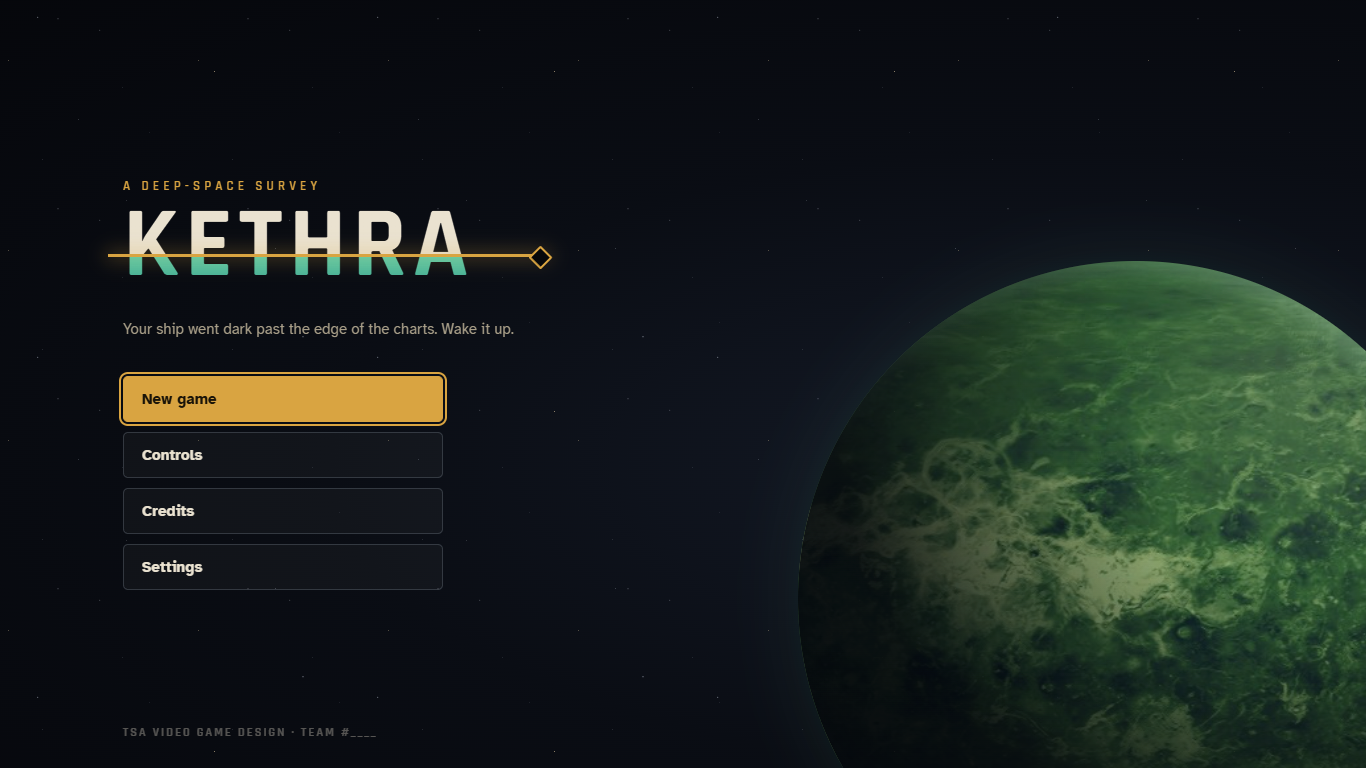
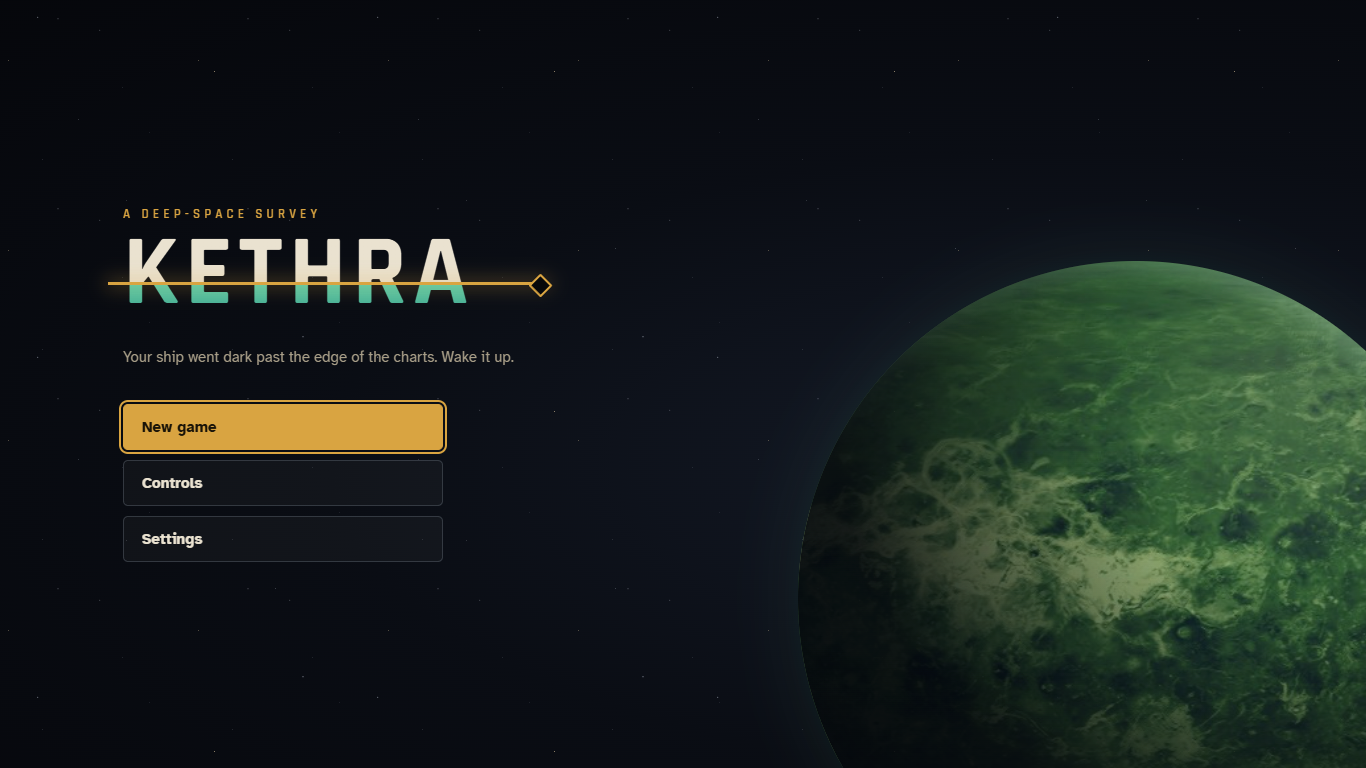
ui(title): remove the Credits button and the team footer line
The credits, with the CC BY attribution, still roll at the end of the
game. Docs updated to match; smoke 6/6.

Changed region(s): [[0.0615, 0.2188, 0.3997, 0.75], [0.0922, 0.9375, 0.246, 0.9688]]

diff --git a/src/ui/TitleScreen.ts b/src/ui/TitleScreen.ts
@@ -11,20 +11,11 @@ import type { BindingId } from '../content/controls';
  * nothing 3D has loaded yet, and the first click on it is what unlocks audio (browsers block sound
  * until the page gets a gesture).
  *
- * Continue / New Game / Controls / Credits / Settings. Controls and Credits open in the shared
+ * Continue / New Game / Controls / Settings. Controls opens in the shared
  * panel system. The controls list prints src/content/controls.ts, the same table the player code
- * reads its keys from, and Credits carries the attribution the CC BY assets require.
+ * reads its keys from. The credits, including the attribution the CC BY assets require, roll at
+ * the end of the game (EndingScene).
  */
-
-const CREDIT_KEYS: StringKey[] = [
-  'credits.freighter',
-  'credits.planets',
-  'credits.kits',
-  'credits.textures',
-  'credits.font',
-  'credits.three',
-  'credits.original',
-];
 
 interface TitleOptions {
   hasSave: boolean;
@@ -45,15 +36,13 @@ export const TitleScreen = {
         <h1 class="title-name"><span class="title-name-text"></span><span class="title-scan" aria-hidden="true"></span></h1>
         <p class="title-tagline"></p>
         <nav class="title-menu"></nav>
-      </div>
-      <div class="title-foot"></div>`;
+      </div>`;
     // Key art: Kethra itself, from the same surface map the 3D planet and the chart use.
     (root.querySelector('.title-planet') as HTMLDivElement).style.backgroundImage = `url(${import.meta.env.BASE_URL}textures/planets/kethra_day.jpg)`;
     root.querySelector('.title-kicker')!.textContent = t('title.kicker');
     root.querySelector('.title-name-text')!.textContent = t('title.name');
     root.querySelector('.title-name')!.setAttribute('data-name', t('title.name'));
     root.querySelector('.title-tagline')!.textContent = t('title.tagline');
-    root.querySelector('.title-foot')!.textContent = t('title.foot');
 
     const menu = root.querySelector('.title-menu')!;
     PanelManager.relockPointerOnClose = false;
@@ -80,7 +69,6 @@ export const TitleScreen = {
     if (opts.hasSave) add('title.continue', true, () => close(opts.onContinue));
     add('title.newGame', !opts.hasSave, () => close(opts.onNewGame));
     add('title.controls', false, () => this.showControls());
-    add('title.credits', false, () => this.showCredits());
     add('title.settings', false, () => SettingsPanel.open());
 
     document.body.appendChild(root);
@@ -113,22 +101,6 @@ export const TitleScreen = {
     note.className = 'title-panel-note';
     note.textContent = t('controls.note');
     panel.appendChild(note);
-    this.closeHint(panel);
-    PanelManager.open(panel);
-  },
-
-  showCredits(): void {
-    const panel = document.createElement('div');
-    panel.className = 'panel title-panel';
-    const h = document.createElement('h2');
-    h.textContent = t('title.credits');
-    panel.appendChild(h);
-    for (const key of CREDIT_KEYS) {
-      const p = document.createElement('p');
-      p.className = 'credit-line';
-      p.textContent = t(key);
-      panel.appendChild(p);
-    }
     this.closeHint(panel);
     PanelManager.open(panel);
   },

diff --git a/src/style.css b/src/style.css
@@ -1453,17 +1453,6 @@ body.title-open #ui-root > :not(.panel-overlay) { visibility: hidden; }
 .title-btn:focus-visible { outline: 2px solid var(--accent); outline-offset: 2px; }
 .title-btn.primary { background: var(--accent); color: #1a1408; border-color: var(--accent); }
 .title-btn.primary:hover { background: var(--accent-hover); border-color: var(--accent-hover); }
-.title-foot {
-  position: absolute;
-  left: clamp(24px, 9vw, 180px);
-  bottom: 28px;
-  font-family: var(--font-display);
-  font-weight: 600;
-  font-size: calc(12px * var(--text-scale));
-  letter-spacing: 0.18em;
-  text-transform: uppercase;
-  color: rgba(234, 226, 208, 0.35);
-}
 @media (prefers-reduced-motion: reduce) {
   .title-planet { animation: none; }
 }

diff --git a/src/content/strings.ts b/src/content/strings.ts
@@ -77,11 +77,9 @@ export const STRINGS = {
   'title.kicker': 'A deep-space survey',
   'title.name': 'Kethra',
   'title.tagline': 'Your ship went dark past the edge of the charts. Wake it up.',
-  'title.foot': 'TSA Video Game Design \u00b7 Team #____',
   'title.continue': 'Continue',
   'title.newGame': 'New game',
   'title.controls': 'Controls',
-  'title.credits': 'Credits',
   'title.settings': 'Settings',
   'title.closeHint': 'Esc to close',
   'toast.continue': 'Continuing your saved journey.',

diff --git a/docs/PLAYTEST_REPORT.md b/docs/PLAYTEST_REPORT.md
@@ -45,12 +45,12 @@ longer [unsourced — estimate: 12–20 minutes]; nobody has timed one yet (BACK
 | Rule | Status | Evidence |
 |---|---|---|
 | Rated E | ✓ | No weapons or combat anywhere; the dangers are darkness, cold and distance. The only fail states are a fall on Kethra (you scramble back) and the frost clock (the backup warmers buy another try). |
-| Original or permissively licensed, logged | ✓ | docs/ASSET_LICENSE_LOG.md; both CC BY assets credited on the title and in the ending's credits. |
+| Original or permissively licensed, logged | ✓ | docs/ASSET_LICENSE_LOG.md; both CC BY assets credited in the ending's credits. |
 | Plain URL, four browsers, Windows and macOS | ~ | Chromium 151, Edge 153, Firefox 153: every level, 0 errors. WebKit 26.5 (the Windows test build of Safari's engine): every level, 0 errors, but the 3D view stays black while sound plays (also true of the build from before this session). **macOS Safari untested.** docs/perf/browser-matrix.json |
 | Offline from a local folder | ✓ | test-offline above. |
 | Level 3 reachable and completable | ✓ | test-vessek-flow. |
 | Run longer than 3 minutes | ✓ (scripted floor) | above. |
-| Nothing identifies the team | ~ | In the game and its files: only "team #____" on the title and in credits. The repository account and commit author names are D-12, a team action. |
+| Nothing identifies the team | ~ | In the game and its files: only "team #____" in the ending's credits. The repository account and commit author names are D-12, a team action. |
 | Keeps working through Nationals | ✓ | Static files, no services, no expiring keys; Render/Cloudflare/GitHub Pages all work (DEPLOY.md). |
 
 ## Resilience (`tools/test-resilience.mjs`, 8/8)

diff --git a/docs/ASSET_LICENSE_LOG.md b/docs/ASSET_LICENSE_LOG.md
@@ -2,8 +2,8 @@
 
 Every asset in the build that isn't written from scratch in this repo, with source, license and
 URL. Per-folder CREDITS.md files hold extra detail (what was re-encoded or remapped, and why).
-**Attribution required** marks licenses that need visible credit in the game; the title screen's
-Credits panel and the ending's credits roll both carry it (`credits.*` in `src/content/strings.ts`).
+**Attribution required** marks licenses that need visible credit in the game; the credits roll at
+the end of the game carries it (`credits.*` in `src/content/strings.ts`).
 
 | Asset | Where | Source | License | Attribution required |
 |---|---|---|---|---|

diff --git a/docs/STORYBOARD_CHECK.md b/docs/STORYBOARD_CHECK.md
@@ -7,8 +7,8 @@ game; don't draw them as playable.
 ## Title
 1. **Title screen.** "KETHRA" in large type, cut by an amber scan line: ink above, sea-green below.
    Kethra turns slowly at the right. Buttons: Continue (only if saved), New game, Controls,
-   Credits, Settings. Footer: "TSA Video Game Design · Team #____".
-2. **Controls / Credits / Settings** open as panels over the title.
+   Settings. No footer; the credits roll at the end of the game.
+2. **Controls / Settings** open as panels over the title.
 
 ## Intro: "Cold Start" (24 s, skippable with Space, Enter or a click)
 3. **Loading screen** with a progress bar and a line of lore.

diff --git a/EXPLAIN_TO_TEAM.md b/EXPLAIN_TO_TEAM.md
@@ -92,7 +92,7 @@ without errors), `test-tutorial-flow.mjs` (36 checks through the opening), `intr
   (BACKLOG B-5).
 
 ## Title screen (`src/ui/TitleScreen.ts`)
-**What:** the first screen: Continue / New Game / Controls / Credits / Settings. Plain HTML and
+**What:** the first screen: Continue / New Game / Controls / Settings (the credits roll at the ending). Plain HTML and
 CSS, so it appears instantly.
 **Why:** the rules require a controls screen reachable from a menu; the CC BY assets need visible
 credit; and browsers won't play sound until the player clicks something.

diff --git a/docs/AUDIT.md b/docs/AUDIT.md
@@ -8,7 +8,7 @@ recorded in STATE_OF_PLAY.md and docs/STYLE_AUDIT.md at the start of that sessio
 ## What exists
 
 **Levels and story**
-- **Title screen** with Continue, New game, Controls, Credits and Settings.
+- **Title screen** with Continue, New game, Controls and Settings (credits roll at the ending).
 - **Intro** ("Cold Start", 24 s, skippable): the white sky hits the Wren.
 - **Level 1, the Wren:** a five-step tutorial, the galaxy reveal, the course plot, and the ship
   as a hub (travel logs, repairs, the navigation map).
